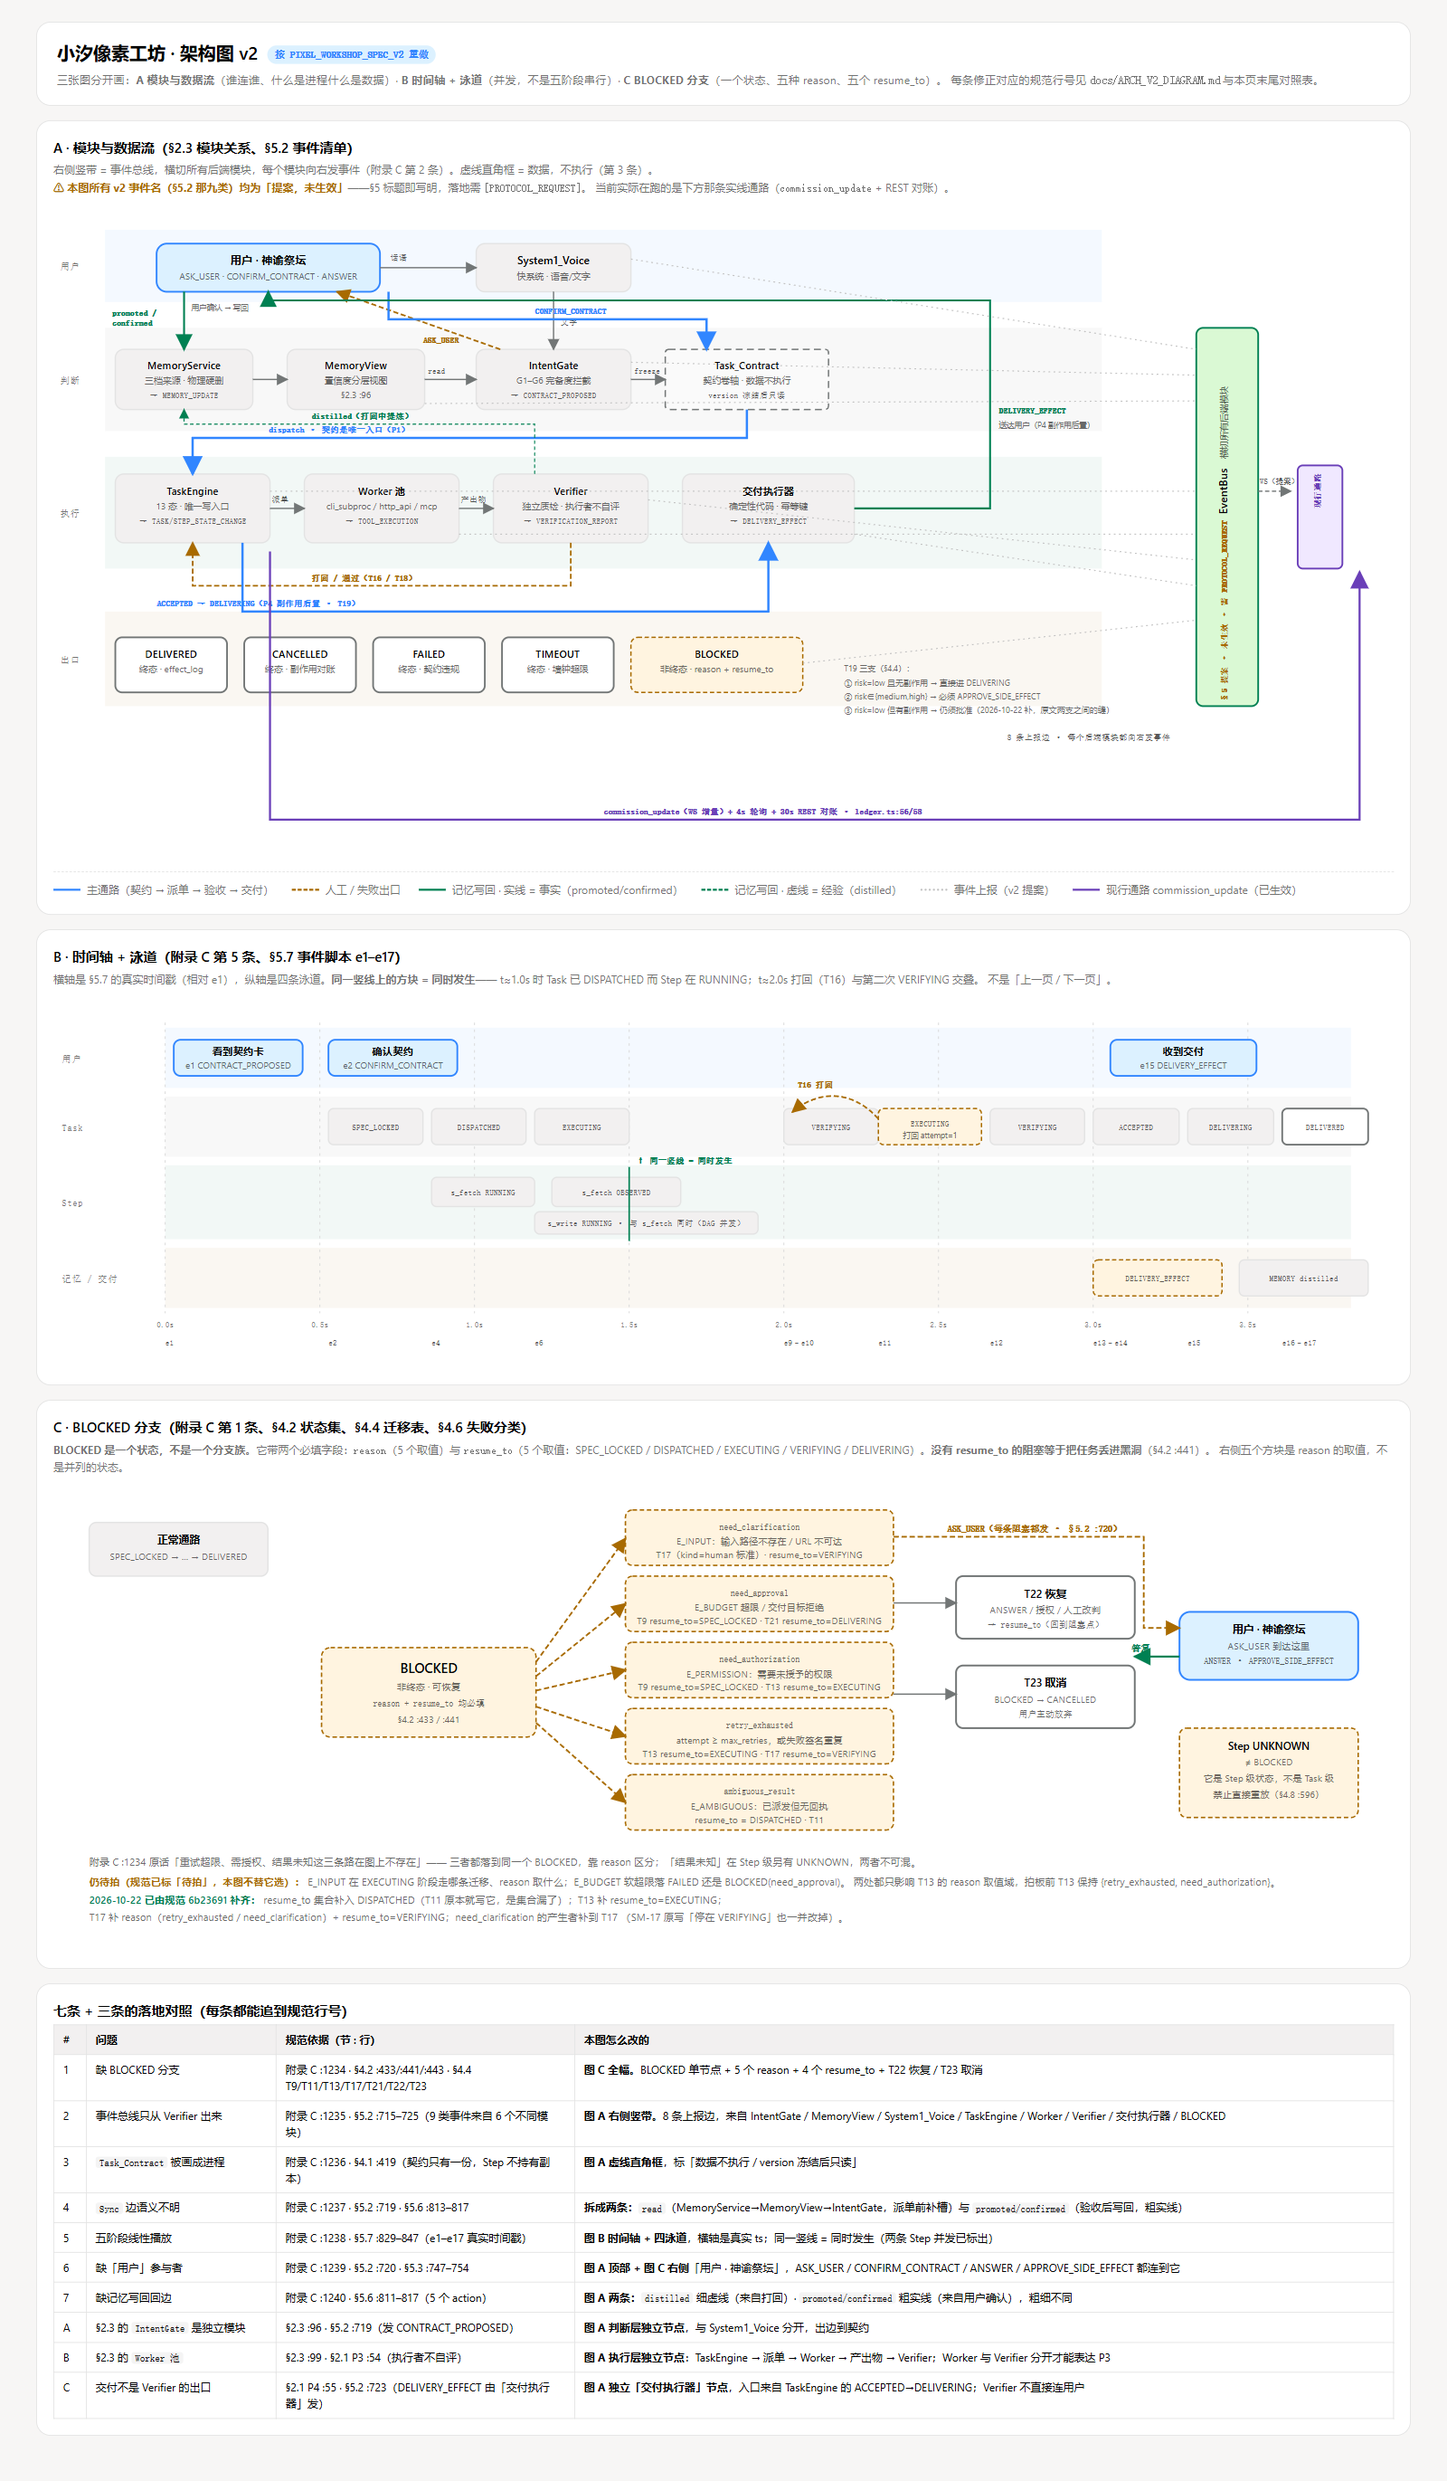
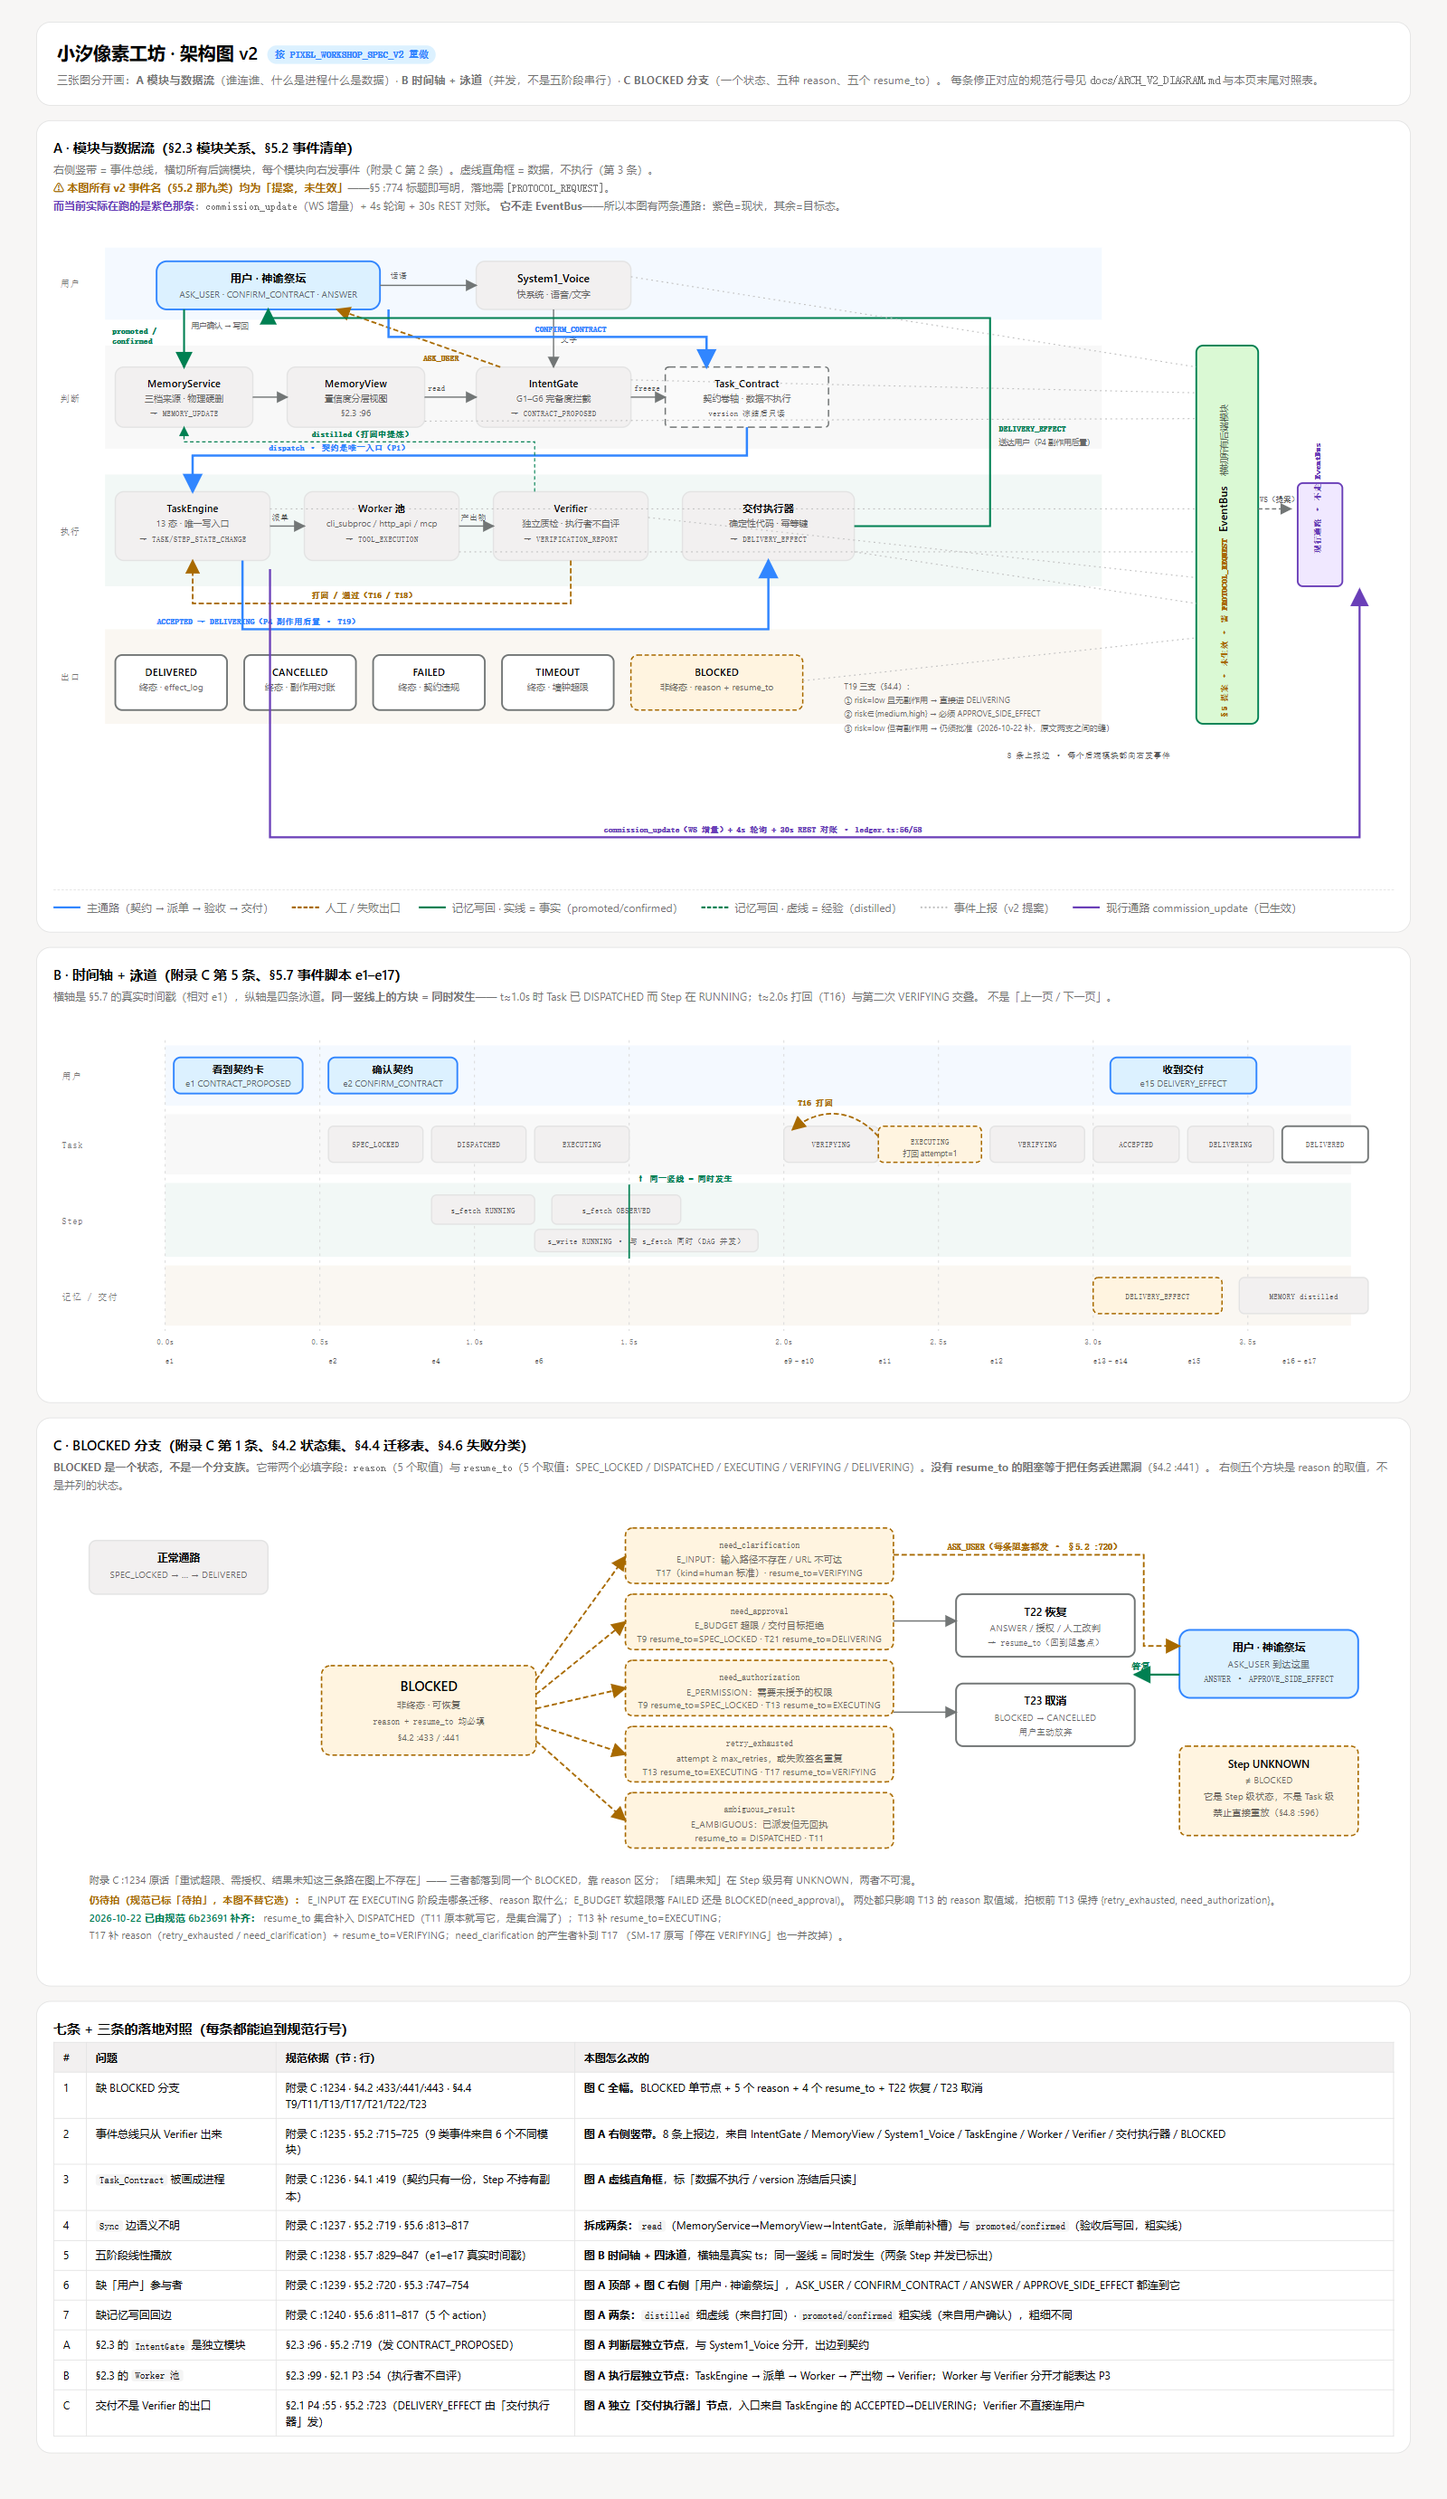
docs(arch): 图 A 说清两条通路——紫=现行 commission_update（不走 EventBus），其余=§5 提案

diff --git a/docs/ARCH_V2_DIAGRAM.html b/docs/ARCH_V2_DIAGRAM.html
@@ -77,8 +77,9 @@
   <h2>A · 模块与数据流（§2.3 模块关系、§5.2 事件清单）</h2>
   <div class="note">
     右侧竖带 = 事件总线，横切所有后端模块，每个模块向右发事件（附录 C 第 2 条）。虚线直角框 = 数据，不执行（第 3 条）。<br>
-    <b style="color:#a86a00">⚠ 本图所有 v2 事件名（§5.2 那九类）均为「提案，未生效」</b>——§5 标题即写明，落地需 <code>[PROTOCOL_REQUEST]</code>。
-    当前实际在跑的是下方那条实线通路（<code>commission_update</code> + REST 对账）。
+    <b style="color:#a86a00">⚠ 本图所有 v2 事件名（§5.2 那九类）均为「提案，未生效」</b>——§5 :774 标题即写明，落地需 <code>[PROTOCOL_REQUEST]</code>。<br>
+    <b style="color:#6a3fb8">而当前实际在跑的是紫色那条</b>：<code>commission_update</code>（WS 增量）+ 4s 轮询 + 30s REST 对账。
+    <b>它不走 EventBus</b>——所以本图有两条通路：紫色=现状，其余=目标态。
   </div>
   <svg viewBox="0 0 1560 760" role="img" aria-label="模块与数据流">
     <defs>
@@ -257,7 +258,7 @@
 
     <!-- 当前实际在跑的通路：commission_update + REST 对账（实线，独立通道） -->
     <rect class="node" x="1448" y="300" width="52" height="120" rx="6" style="fill:#f0e8ff;stroke:#6a3fb8;stroke-width:2;stroke-dasharray:none"/>
-    <text class="s-mono" x="1474" y="330" text-anchor="middle" transform="rotate(-90 1474 330)" style="fill:#6a3fb8;font-weight:600">现行通路</text>
+    <text class="s-mono" x="1474" y="318" text-anchor="middle" transform="rotate(-90 1474 318)" style="fill:#6a3fb8;font-weight:600">现行通路 · 不走 EventBus</text>
 
     <!-- 现行通路：TaskEngine 右侧 -> 竖通道 x=1520 -> 现行通路框 -->
     <path class="edge-cur" d="M 252 400 L 252 712 L 1520 712 L 1520 424" marker-end="url(#a-arc)"/>
